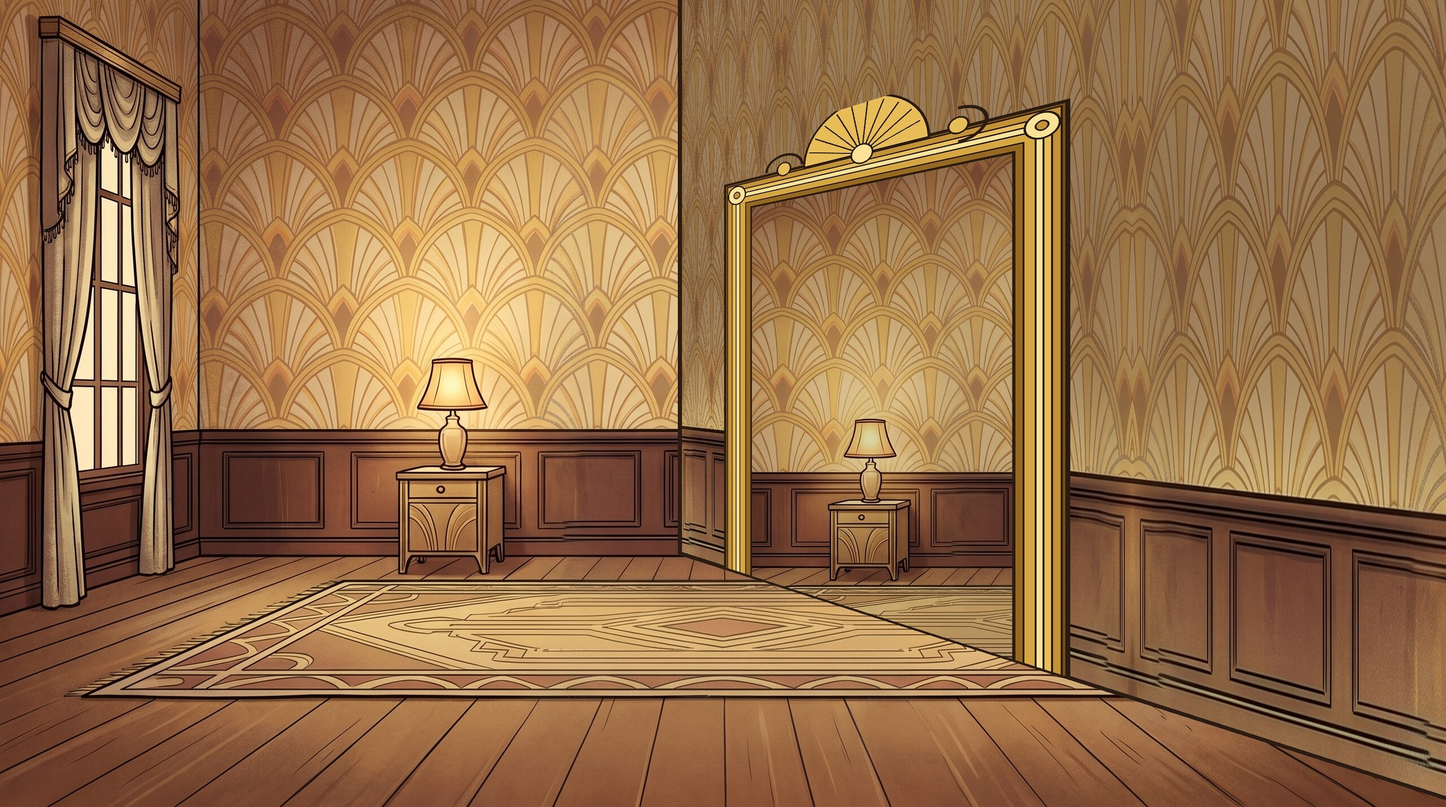
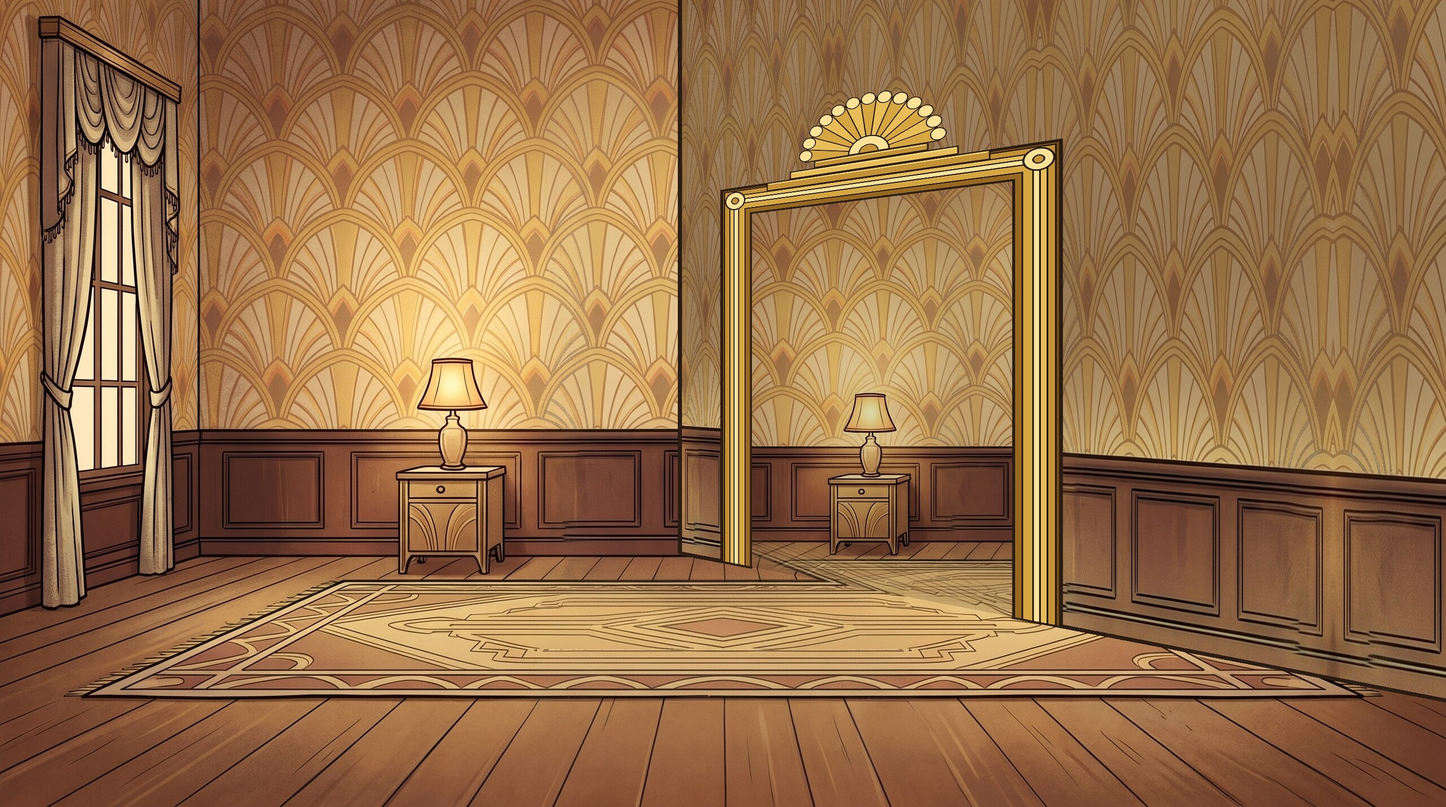
The room: the dividing wall turned less so its paper is not stretched, the floor seen again in the foot of the glass, and an Art Deco sunburst crest

Changed region(s): [[0.4688, 0.0, 1.0, 0.9853]]

diff --git a/tools/compose_room.py b/tools/compose_room.py
@@ -27,7 +27,7 @@ OUT = "assets/src/room.jpeg"
 # floor, and it runs off the picture to the right. Its top and foot are straight lines
 # that meet at the vanishing point, and the opening's corners lie on lines to it too.
 BASE = 0.685                         # the foot of the back wall, down the picture
-VP = (0.037, 0.437)                  # where the wall's lines meet
+VP = (-0.25, 0.437)                  # where the wall's lines meet: far off, so it is turned only a little toward us
 WALL_END = 0.47
 def on_wall(x, up):
     """The point on the wall `x` across and `up` of the way from its foot to its top."""
@@ -79,9 +79,9 @@ def draw_frame(W=1000, H=1560, band=110):
     """An empty gilt frame, drawn: moulded bands of gold with ink between them, a
     rosette at the top corners, and a shell crest on top. It has no bottom bar: its
     sides stand on the floor, like a doorway. The inside is clear."""
-    im = Image.new("RGBA", (W, H + 160), (0, 0, 0, 0))
+    im = Image.new("RGBA", (W, H + 300), (0, 0, 0, 0))
     d = ImageDraw.Draw(im)
-    top = 160
+    top = 300
     GOLD = [(120, 78, 20), (196, 146, 52), (232, 188, 86), (252, 226, 150), (214, 166, 64), (150, 104, 32)]
     steps = [0, 0.12, 0.3, 0.45, 0.6, 0.82, 1.0]
     for k, c in enumerate(GOLD):                     # the mouldings, from the outside in
@@ -95,16 +95,35 @@ def draw_frame(W=1000, H=1560, band=110):
         r = band * 0.34                               # a rosette at each corner
         d.ellipse([cx - r, cy - r, cx + r, cy + r], fill=GOLD[3] + (255,), outline=INK, width=5)
         d.ellipse([cx - r * 0.4, cy - r * 0.4, cx + r * 0.4, cy + r * 0.4], fill=GOLD[1] + (255,), outline=INK, width=4)
-    cx, cy, R = W / 2, top + 10, 190                  # the shell crest
-    d.pieslice([cx - R, cy - R, cx + R, cy + R], 180, 360, fill=GOLD[2] + (255,), outline=INK, width=7)
-    for a in range(196, 345, 16):
-        t = np.radians(a)
-        d.line([(cx, cy), (cx + R * 0.92 * np.cos(t), cy + R * 0.92 * np.sin(t))], fill=INK, width=4)
-    d.ellipse([cx - 34, cy - 34, cx + 34, cy + 34], fill=GOLD[3] + (255,), outline=INK, width=5)
-    for side in (-1, 1):                              # scrolls either side of it
-        sx = cx + side * (R + 70)
-        d.arc([sx - 70, cy - 70, sx + 70, cy + 40], 180 if side < 0 else 270, 360 if side < 0 else 180 + 270, fill=INK, width=9)
-        d.ellipse([sx - 26, cy - 40, sx + 26, cy + 12], fill=GOLD[2] + (255,), outline=INK, width=5)
+    # the crest: an Art Deco sunburst on a stepped base, like the wallpaper's fans,
+    # drawn at twice the size and scaled down for smooth edges
+    S = 2
+    cw, chh = 760, 320
+    crest = Image.new("RGBA", (cw * S, chh * S), (0, 0, 0, 0))
+    c = ImageDraw.Draw(crest)
+    ink = INK
+    def box(x0, y0, x1, y1, fill):
+        c.rectangle([x0 * S, y0 * S, x1 * S, y1 * S], fill=fill + (255,), outline=ink, width=4 * S)
+    base = chh - 6
+    for i, (half, tall) in enumerate(((330, 34), (250, 30), (170, 28))):        # the steps
+        y1 = base - sum(t for _, t in ((330, 34), (250, 30), (170, 28))[:i]); y0 = y1 - tall
+        box(cw / 2 - half, y0, cw / 2 + half, y1, GOLD[1 + i % 2])
+        c.line([((cw / 2 - half + 8) * S, (y0 + 7) * S), ((cw / 2 + half - 8) * S, (y0 + 7) * S)], fill=GOLD[3] + (255,), width=3 * S)
+    top_step = base - 92
+    fx, fy, R = cw / 2, top_step, 200                                             # the sunburst
+    rays = 13
+    for k in range(rays):
+        a0, a1 = 180 + 180 * k / rays, 180 + 180 * (k + 1) / rays
+        c.pieslice([(fx - R) * S, (fy - R) * S, (fx + R) * S, (fy + R) * S], a0, a1,
+                   fill=(GOLD[2] if k % 2 else GOLD[4]) + (255,), outline=ink, width=3 * S)
+    for k in range(rays):                                                        # a scalloped rim
+        t = np.radians(180 + 180 * (k + 0.5) / rays)
+        x, y, r = fx + (R - 2) * np.cos(t), fy + (R - 2) * np.sin(t), 22
+        c.ellipse([(x - r) * S, (y - r) * S, (x + r) * S, (y + r) * S], fill=GOLD[3] + (255,), outline=ink, width=3 * S)
+    c.pieslice([(fx - 62) * S, (fy - 62) * S, (fx + 62) * S, (fy + 62) * S], 180, 360, fill=GOLD[3] + (255,), outline=ink, width=4 * S)
+    c.pieslice([(fx - 30) * S, (fy - 30) * S, (fx + 30) * S, (fy + 30) * S], 180, 360, fill=GOLD[1] + (255,), outline=ink, width=3 * S)
+    crest = crest.resize((cw, chh), Image.LANCZOS)
+    im.alpha_composite(crest, (round(W / 2 - cw / 2), round(top - chh + 40)))
     return im
 
 def main():
@@ -143,19 +162,45 @@ def main():
     paper = Image.fromarray(arr.astype(np.uint8))
     # laid end to end, every other one turned over, so the joins match (the pattern
     # and the panels are symmetrical)
-    run = Image.new("RGBA", (paper.width * 4, paper.height))
-    for i in range(4): run.paste(paper if i % 2 == 0 else ImageOps.mirror(paper), (i * paper.width, 0))
-    paper = run
+    # as long as the wall is, so the pattern is not stretched: where the wall meets the
+    # back wall it is drawn at the same scale across as up
+    (ex, ey0), (ex1, ey1) = on_wall(WALL_END, 1), on_wall(1.02, 1)
+    h0 = on_wall(WALL_END, 0)[1] - ey0; h1 = on_wall(1.02, 0)[1] - ey1
+    length = (1.02 - WALL_END) * w * (h1 / h0) / (h0 * h / paper.height)
+    n = int(np.ceil(length / paper.width))
+    run = Image.new("RGBA", (paper.width * n, paper.height))
+    for i in range(n): run.paste(paper if i % 2 == 0 else ImageOps.mirror(paper), (i * paper.width, 0))
+    paper = run.crop((0, 0, round(length), paper.height))
     pw, ph = paper.size
     wall = paper.transform((w, h), Image.PERSPECTIVE, coeffs([(0, 0), (pw, 0), (pw, ph), (0, ph)], P(WALL)), Image.BICUBIC)
     room.paste(wall, (0, 0), mask(WALL))
 
     # its end against the back wall and its foot, inked
     d = ImageDraw.Draw(room)
-    d.line([P(WALL)[0], P(WALL)[3], P(WALL)[2]], fill=INK, width=max(2, round(w * 0.003)), joint="curve")
+    lw = max(2, round(w * 0.003))
+    d.line([P(WALL)[0], P(WALL)[3]], fill=INK, width=lw)
+    d.line([P(WALL)[3], P(OPENING)[3]], fill=INK, width=lw)        # not across the opening
+    d.line([P(OPENING)[2], P(WALL)[2]], fill=INK, width=lw)
 
-    # the opening, right down to the floor, and the frame round it
+    # the opening, right down to the floor, and the frame round it. Just above its
+    # foot, the floor in front of it is seen again, as a mirror shows it, so that the
+    # floor runs on into the glass without a seam
     room.paste(beyond, (0, 0), mask(OPENING))
+    arr = np.array(room).astype(float); src = np.asarray(clean).astype(float)
+    D = round(0.05 * h)
+    (ax, ay), (bx, by) = P([OPENING[3], OPENING[2]])
+    for x in range(round(ax), round(bx)):
+        foot = ay + (by - ay) * (x - ax) / (bx - ax)
+        for d in range(D):
+            yd = int(foot) - d
+            ys = 2 * foot - yd                         # its mirror image below the foot, between rows
+            i = int(ys); fr = ys - i
+            if i + 1 >= h: break
+            pix = src[i, x, :3] * (1 - fr) + src[i + 1, x, :3] * fr
+            f = (1 - d / D) ** 1.5
+            arr[yd, x, :3] = arr[yd, x, :3] * (1 - f) + pix * FAR_DIM * f
+    arr = arr.clip(0, 255).astype(np.uint8)
+    room = Image.fromarray(arr)
     frame = keyed(FRAME) if os.path.exists(FRAME) else draw_frame()
     x0, y0, x1, y1 = inside(frame)
     fw = frame.transform((w, h), Image.PERSPECTIVE, coeffs([(x0, y0), (x1, y0), (x1, y1), (x0, y1)], P(OPENING)), Image.BICUBIC)
